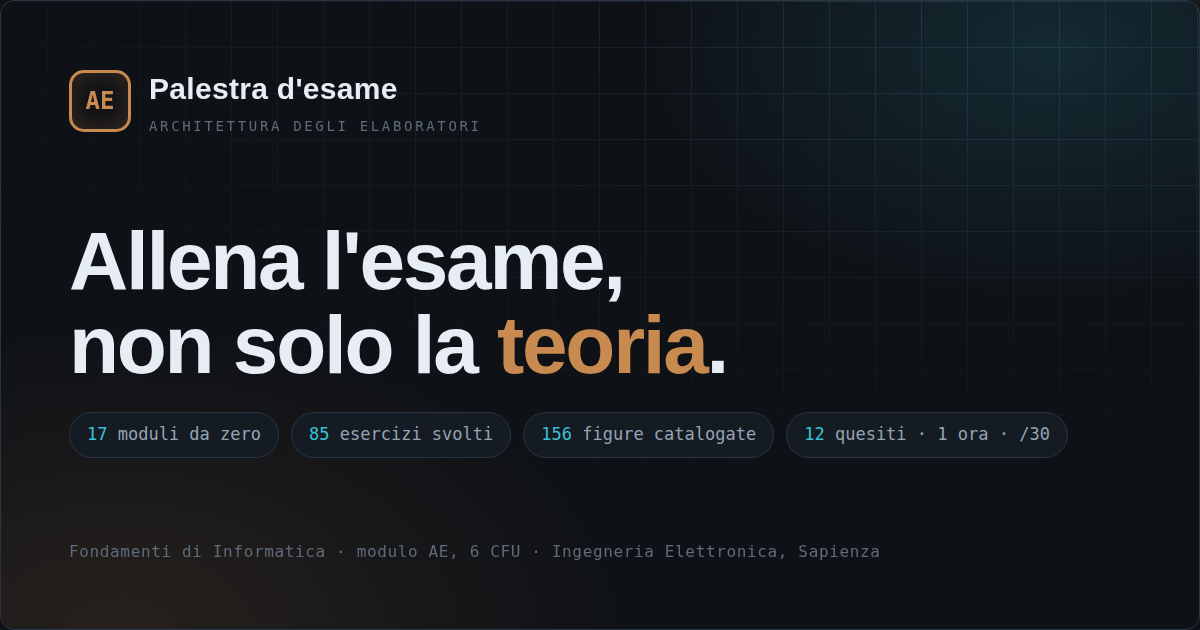
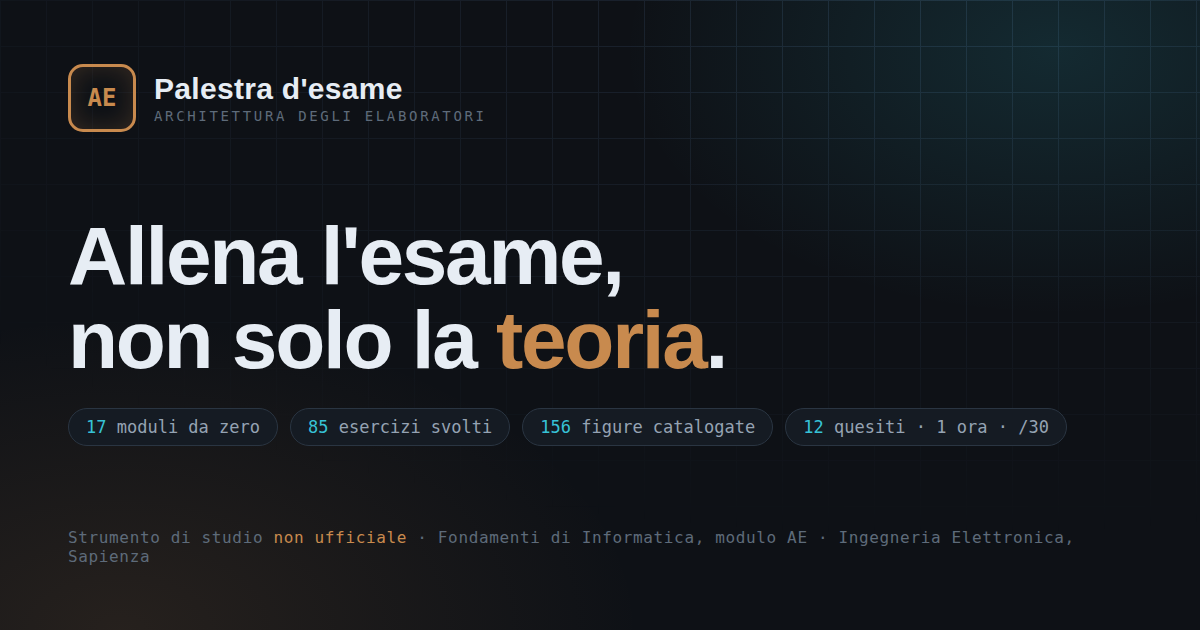
Il sito smette di attribuire a terzi cose che non può provare
Revisione di tutto ciò che il sito **afferma** su persone e istituzioni. Non
è una questione di forma: erano affermazioni presentate come fatti, senza
una fonte dietro.

**Una fonte dichiarata e mai consultata.** La home diceva «Dal regolamento
del docente e dagli appelli 2024–2025». Quel regolamento non è mai stato
letto: le pagine del corso non sono raggiungibili da qui, e il formato è una
ricostruzione da appunti fra studenti. Ora lo dice, e lo dice **due volte**:
sotto i dodici quesiti, attaccato al numero, e per esteso nella sezione — che
si intitola «Come *dovrebbe* essere fatta la prova». Anche i 2,5 punti sono
dichiarati per quello che sono: una scelta di questo sito, perché i pesi
reali non li conosciamo.

**Niente più affermazioni su una persona reale.** «Le trappole *del
docente*» diventano «Accortezze raccolte dagli studenti», e i testi passano
all'impersonale: descrivono come conviene rispondere, non cosa qualcuno
pensa, chiede o sbaglia. Una in particolare sosteneva che certe risposte
ufficiali fossero errate — un'accusa a un professionista con nome e cognome,
basata su un appunto di terza mano: riscritta tenendo solo la parte utile,
cioè la forma corretta della notazione RTN. Un badge «da verificare» non
rende innocua un'affermazione del genere.

Il nome esce anche dal richiamo in cima («formato del prof. Napoli» →
«formato della scritta») e dalla descrizione che finisce nei risultati di
[…]

diff --git a/src/ui/views/Dashboard.tsx b/src/ui/views/Dashboard.tsx
@@ -76,9 +76,9 @@ export function Dashboard(): JSX.Element {
               non solo la teoria.
             </h1>
             <p class="lead">
-              Genera prove nel formato del prof. Napoli — 12 quesiti, voto su 30 con lode — con
-              complemento a 2, sintesi di reti combinatorie via Karnaugh e assembly, ogni item
-              ancorato a un capitolo di Hamacher.
+              Genera prove nel formato della scritta — 12 quesiti, voto su 30 — con complemento
+              a 2, sintesi di reti combinatorie via Karnaugh e assembly, ogni item ancorato a un
+              capitolo di Hamacher.
             </p>
             <div class="btn-row">
               <a class="btn primary" href={hrefFor('exam', 'full')}>
@@ -91,7 +91,7 @@ export function Dashboard(): JSX.Element {
           </div>
 
           <aside class="hero-card">
-            <p class="hero-card-t">La prova, quesito per quesito</p>
+            <p class="hero-card-t">Il formato che alleni</p>
             <ul class="qbreak">
               {EXAM_BREAKDOWN.map((row) => (
                 <li key={row.label}>
@@ -102,6 +102,10 @@ export function Dashboard(): JSX.Element {
             </ul>
             <p class="qb-foot">
               <b>12</b> quesiti · <b>1</b> ora · si passa da <b>18/30</b>
+              {/* La scomposizione è la cosa più «ufficiale» che il sito mostra,
+                  ed è la meno verificata: il chiarimento sta qui, addosso al
+                  numero, non tre schermate più in basso. */}
+              <span class="qb-warn">ricostruzione da appunti, non una fonte del corso</span>
             </p>
           </aside>
         </div>
@@ -135,18 +139,26 @@ export function Dashboard(): JSX.Element {
         </div>
       )}
 
-      <h2 class="sec">Come è fatto l'esame reale</h2>
+      <h2 class="sec">Come dovrebbe essere fatta la prova</h2>
       <div class="panel narrow">
         <p class="lead">
-          Dal regolamento del docente e dagli appelli 2024–2025: prova scritta in aula,{' '}
-          <b>un'ora</b>, solo documento e penna — nessun appunto. La scomposizione dei dodici
-          quesiti è quella qui sopra e vale a punteggio uguale: <b>2,5 punti</b> l'uno. Si supera
-          con <b>18/30</b>, la lode ai brillanti.
+          <b>Attenzione a come leggi questa pagina.</b> Quella qui sopra è una{' '}
+          <b>ricostruzione</b> messa insieme da appunti di studenti: non viene da una fonte del
+          corso e nessuno l'ha confermata. Serve ad allenarsi su un formato plausibile, non a
+          sapere che cosa troverai davvero sul foglio.
         </p>
         <p class="lead" style="margin-top:10px">
-          I due «completare l'immagine» ci sono <b>sempre</b>, e sono schemi delle figure di
-          Hamacher: sono la parte che si prepara disegnando, non rileggendo. Qui trovi gli stessi
-          schemi <a href={hrefFor('ref')}>ridisegnati</a> e da{' '}
+          Secondo quegli appunti la prova è scritta, dura <b>un'ora</b> e non ammette materiale
+          di consultazione. I <b>2,5 punti</b> per quesito sono invece una scelta{' '}
+          <em>di questo sito</em>: i pesi reali non li conosciamo, e dividere trenta per dodici
+          era l'ipotesi più onesta.{' '}
+          <a href={hrefFor('ref')}>Le regole vere stanno sulla pagina del corso</a>: prima
+          dell'appello controlla lì, e se dice altro vale quello che dice lei.
+        </p>
+        <p class="lead" style="margin-top:10px">
+          Gli schemi da completare sono figure del tipo di quelle di Hamacher: è la parte che si
+          prepara disegnando, non rileggendo. Qui li trovi{' '}
+          <a href={hrefFor('ref')}>ridisegnati da zero</a> e da{' '}
           <a href={hrefFor('train')}>completare a vuoto</a>.
         </p>
       </div>
@@ -159,11 +171,19 @@ export function Dashboard(): JSX.Element {
       </div>
 
       <div class="disclaim">
-        ⚠ Strumento di studio non ufficiale, costruito su appunti studenteschi e sul regolamento
-        pubblico del docente. Le domande sono nello <em>stile</em> dell'esame ma non sono prove
-        reali. Verifica sempre programma e regole aggiornate sul sito del prof. e sul catalogo
-        Sapienza. I riferimenti «Hamacher» rimandano ai capitoli/figure del testo — consultalo per
-        i contenuti integrali.
+        ⚠ <b>Strumento di studio non ufficiale</b>, scritto da uno studente e{' '}
+        <b>non affiliato alla Sapienza</b>, al corso o a chi lo tiene: nessuno di loro l'ha
+        rivisto o approvato. È costruito su appunti fra studenti, quindi può contenere errori e
+        parti sorpassate — programma, regole e date valgono solo se le leggi{' '}
+        <a href={hrefFor('ref')}>sulle pagine ufficiali del corso</a>.
+        <br />
+        Le domande sono <b>inventate qui</b>, nello <em>stile</em> della prova: non sono, e non
+        riproducono, prove d'esame reali. I riferimenti «Hamacher» sono rimandi a capitoli e
+        figure del testo, non citazioni: gli schemi del sito sono ridisegnati da zero. Per i
+        contenuti, il libro.
+        <br />
+        Nessun account e nessun server: quello che fai resta nel tuo browser e non viene inviato
+        a nessuno.
       </div>
     </section>
   );

diff --git a/src/content/traps.ts b/src/content/traps.ts
@@ -1,16 +1,21 @@
 import type { Trap } from './types';
 
 /**
- * Le «trappole» del docente, raccolte dagli appunti studenteschi.
+ * Accortezze raccolte dagli appunti degli studenti.
  *
- * Sono marcate `da-verificare` di proposito: sono percezioni utili in fase di
- * preparazione, non regole confermate. La UI le mostra con il badge relativo.
+ * **Sono percezioni di chi ha dato l'esame, non regole di nessuno.** Per
+ * questo sono scritte all'impersonale e marcate `da-verificare`: attribuirle
+ * a una persona significherebbe metterle in bocca a qualcuno che non le ha
+ * dette qui, e nessuna di queste è confermata da una fonte del corso.
+ *
+ * Regola per chi ne aggiunge: descrivi **come conviene rispondere**, mai cosa
+ * qualcuno pensa, chiede, sbaglia o preferisce.
  */
 export const traps: Trap[] = [
   {
     id: 'trap-and-assoc',
-    title: 'AND «non associativo»',
-    body: 'Evita porte AND a 3+ ingressi nei disegni: scomponi in porte a 2 ingressi. Secondo gli appunti considera associativi solo OR e NOR.',
+    title: 'AND a più di due ingressi',
+    body: 'Nei disegni conviene scomporre le porte AND a 3+ ingressi in porte a 2 ingressi: è la forma che gli appunti riportano come attesa.',
     status: 'da-verificare',
   },
   {
@@ -22,7 +27,7 @@ export const traps: Trap[] = [
   {
     id: 'trap-simboli',
     title: 'Simboli logici',
-    body: 'Usa {∧, ∨} nelle risposte: nei quesiti non scrive «AND»/«OR» per esteso.',
+    body: 'Conviene usare {∧, ∨} invece di «AND»/«OR» per esteso: è la notazione usata a lezione secondo gli appunti.',
     status: 'da-verificare',
   },
   {
@@ -33,8 +38,8 @@ export const traps: Trap[] = [
   },
   {
     id: 'trap-rtn',
-    title: 'RTN richiesto',
-    body: 'Alcune risposte pronte dei quiz erano errate: scrivi tu la forma corretta, es. <code>Add R1,R2,R3</code> → <code>R1 ← [R2]+[R3]</code>.',
+    title: 'RTN, forma corretta',
+    body: 'Nelle risposte scrivi la notazione per esteso e con le parentesi solo sulle sorgenti: <code>Add R1,R2,R3</code> → <code>R1 ← [R2]+[R3]</code>.',
     status: 'da-verificare',
   },
 ];

diff --git a/src/ui/views/References.tsx b/src/ui/views/References.tsx
@@ -55,12 +55,13 @@ export function References(): JSX.Element {
   return (
     <section class="view">
       <p class="eyebrow">Cassetta degli attrezzi</p>
-      <h1 class="h">Riferimenti &amp; trappole</h1>
+      <h1 class="h">Riferimenti &amp; accortezze</h1>
       <p class="lead">
         Il catalogo completo delle figure del testo — <b>{figures.length} tavole</b>, capitolo per
-        capitolo — con <b>{drawn} schemi ridisegnati</b> su cui esercitarsi. All'esame c'è sempre un
-        «completare l'immagine»: si riceve il disegno con alcune etichette mancanti e l'elenco di
-        quelle da collocare, con qualche etichetta in più che non va da nessuna parte.
+        capitolo — con <b>{drawn} schemi ridisegnati</b> su cui esercitarsi. Secondo gli appunti
+        degli studenti un «completare l'immagine» c'è a ogni appello: si riceve il disegno con
+        alcune etichette mancanti e l'elenco di quelle da collocare, con qualche etichetta in più
+        che non va da nessuna parte.
       </p>
 
       <div class="panel" style="margin-top:14px">
@@ -123,10 +124,11 @@ export function References(): JSX.Element {
         );
       })}
 
-      <h2 class="sec">Le «trappole» del docente</h2>
+      <h2 class="sec">Accortezze raccolte dagli studenti</h2>
       <p class="lead">
-        Percezioni raccolte dagli studenti — da verificare a lezione, ma utili in fase di
-        preparazione.
+        Impressioni di chi ha dato l'esame prima di te: <b>non sono regole di nessuno</b> e
+        nessuno le ha confermate. Trattale come consigli fra colleghi, verificali a lezione, e
+        se contraddicono la pagina del corso segui quella.
       </p>
       <div>
         {traps.map((trap) => (

diff --git a/index.html b/index.html
@@ -6,9 +6,13 @@
     <link rel="icon" type="image/svg+xml" href="./favicon.svg" />
     <meta name="theme-color" content="#0E1116" />
     <title>AE·FIN — Palestra d'esame · Architettura degli Elaboratori</title>
+    <!-- Niente nome del docente nella descrizione: è il testo che finisce nei
+         risultati di ricerca, e accostare una persona reale a uno strumento
+         non ufficiale suggerisce un avallo che non c'è. Il nome del corso
+         basta a farlo trovare. -->
     <meta
       name="description"
-      content="Sito di studio e simulatore d'esame per il modulo Architettura degli Elaboratori (Fondamenti di Informatica, Napoli — Sapienza). Generatore di prove in stile docente con riferimenti Hamacher."
+      content="Sito di studio e simulatore d'esame non ufficiale per il modulo Architettura degli Elaboratori (Fondamenti di Informatica, Ingegneria Elettronica — Sapienza). Domande inventate nello stile della prova, con rimandi ai capitoli di Hamacher."
     />
     <meta name="color-scheme" content="dark" />
 
@@ -22,7 +26,7 @@
     />
     <meta
       property="og:description"
-      content="Diciassette moduli di teoria da zero, 85 esercizi svolti e un generatore di prove nel formato reale: 12 quesiti, un'ora, voto su 30."
+      content="Diciassette moduli di teoria da zero, 85 esercizi svolti e un generatore di prove. Strumento non ufficiale, scritto da uno studente: le domande sono inventate, non sono prove d'esame reali."
     />
     <!-- Assoluta e non relativa: i crawler delle anteprime non risolvono
          `./` rispetto alla pagina, e l'immagine resterebbe vuota. -->

diff --git a/src/engine/buildExam.ts b/src/engine/buildExam.ts
@@ -74,13 +74,14 @@ function expandSlots(slots: readonly Slot[], rng: Rng): { gen: GeneratorId; poin
 /**
  * Struttura delle prove.
  *
- * `full` ricalca il formato reale, quesito per quesito: 4 crocette,
- * **2 «completare l'immagine»**, 2 «da tabella di verità a espressione», 1
- * sintesi di rete combinatoria, 2 domande aperte, 1 programma assembly.
+ * `full` segue il formato **ricostruito dagli appunti degli studenti**, non
+ * una fonte del corso: 4 crocette, 2 «completare l'immagine», 2 «da tabella di
+ * verità a espressione», 1 sintesi di rete combinatoria, 2 domande aperte, 1
+ * programma assembly.
  *
- * Punti uniformi: 12 × 2,5 = **30**. Sul testo della prova i punti per quesito
- * non sono indicati, quindi li tengo uguali; se il docente li pesa diversamente
- * si cambia qui e basta, perché la somma è verificata da un test.
+ * Punti uniformi: 12 × 2,5 = **30**. I pesi reali non ci sono noti, quindi
+ * dividere trenta per dodici è l'ipotesi più onesta; se salta fuori che sono
+ * diversi si cambia qui e basta, perché la somma è verificata da un test.
  */
 const BLUEPRINTS: Record<ExamMode, Slot[]> = {
   full: [

diff --git a/src/content/links.ts b/src/content/links.ts
@@ -13,18 +13,24 @@ export const links: LinkItem[] = [
     note: 'Testo integrativo',
     kind: 'testo',
   },
+  /**
+   * Le note di questi due dicono a che cosa servono, non che cosa contengono:
+   * sono le pagine ufficiali del corso e nessuno di noi può garantire in loro
+   * vece. Se dicono qualcosa di diverso da questo sito, vale quello che dicono
+   * loro.
+   */
   {
     id: 'link-napoli',
-    label: 'Sito del prof. Napoli',
+    label: 'Pagina del docente del corso',
     url: 'https://cnapoli.diag.uniroma1.it',
-    note: 'Teaching · Exams · Calendar',
+    note: 'La fonte ufficiale: parti da qui',
     kind: 'risorsa',
   },
   {
     id: 'link-regolamento',
-    label: 'Regolamento della prova scritta',
+    label: 'Regole della prova scritta',
     url: 'https://sites.google.com/diag.uniroma1.it/napoli/teaching/exams/em-fin',
-    note: 'Struttura e punteggi ufficiali',
+    note: 'Da verificare qui: in caso di differenze vale questa pagina',
     kind: 'regolamento',
   },
   {

diff --git a/src/app.tsx b/src/app.tsx
@@ -57,9 +57,15 @@ function Footer(): JSX.Element {
   return (
     <footer class="site-footer">
       <div class="foot-inner">
+        {/*
+          La riserva sta qui e non solo in home: al Simulatore ci si arriva
+          per collegamento diretto, e chi entra da lì non vedrebbe mai
+          scritto che le domande non sono prove vere.
+        */}
         <p class="foot-note" style="margin:0">
-          AE·FIN — palestra d'esame · costruito per lo studio personale · non affiliato alla
-          Sapienza
+          AE·FIN — palestra d'esame · strumento <b>non ufficiale</b> scritto da uno studente,
+          non affiliato alla Sapienza né al corso · le domande sono inventate, non sono prove
+          d'esame reali · nessun dato esce dal tuo browser
         </p>
         <nav class="foot-nav" aria-label={t('Mappa del sito')}>
           {VIEWS.map((view) => (

diff --git a/src/styles/components.css b/src/styles/components.css
@@ -366,6 +366,15 @@
     color: var(--color-copper);
     font-weight: 600;
   }
+  /* La riserva sta attaccata al numero che riguarda, non in fondo alla
+     pagina: chi legge «12 quesiti» deve leggere lì da dove viene. */
+  .qb-warn {
+    display: block;
+    margin-top: 5px;
+    color: var(--color-amber);
+    letter-spacing: 0;
+    font-size: 10.5px;
+  }
   .chip {
     display: inline-flex;
     align-items: center;
@@ -1260,8 +1269,12 @@
     text-decoration: none;
   }
   .foot-note {
-    max-width: 46ch;
-    line-height: 1.7;
+    max-width: 62ch;
+    line-height: 1.75;
+  }
+  .foot-note b {
+    color: var(--color-muted);
+    font-weight: 500;
   }
   /* Avvertenza. Deve restare leggibile, non gridare: è una nota a piè di
      pagina con un bordo, non un allarme — e si ferma alla misura del testo. */

diff --git a/src/engine/generators/theory.ts b/src/engine/generators/theory.ts
@@ -33,8 +33,8 @@ const mono = (s: string): string => `<code>${s}</code>`;
 /**
  * Notazione RTN di un'istruzione.
  *
- * I distrattori non sono casuali: sono i tre errori che il docente segnala
- * (trappola `trap-rtn`) — parentesi quadre dimenticate sulle sorgenti,
+ * I distrattori non sono casuali: sono i tre errori tipici raccolti negli
+ * appunti (`trap-rtn`) — parentesi quadre dimenticate sulle sorgenti,
  * parentesi messe erroneamente sulla destinazione, destinazione scambiata.
  * Le parentesi significano «contenuto di», quindi vanno solo dove si legge.
  */

diff --git a/src/ui/components/TrapNote.tsx b/src/ui/components/TrapNote.tsx
@@ -3,9 +3,9 @@ import type { Trap } from '~/content/types';
 import { Rich } from './Rich';
 
 /**
- * Riquadro «trappola». Il badge di stato è deliberato: sono percezioni
- * raccolte dagli studenti, non regole confermate dal docente, e la specifica
- * chiede che questo resti esplicito.
+ * Riquadro «accortezza». Il badge di stato è deliberato: sono impressioni
+ * raccolte fra studenti, non regole di nessuno, e questo deve restare
+ * esplicito ovunque compaiano.
  */
 export function TrapNote({ trap }: { trap: Trap }): JSX.Element {
   return (

diff --git a/src/content/types.ts b/src/content/types.ts
@@ -149,8 +149,9 @@ export interface Figure {
 }
 
 /**
- * «Trappola» del docente. Sono percezioni raccolte dagli studenti: `status`
- * tiene esplicito che vanno verificate, come chiede la specifica.
+ * Accortezza raccolta dagli appunti degli studenti. Non è la regola di
+ * nessuno: `status` tiene esplicito che va verificata, e il testo va scritto
+ * all'impersonale — vedi la nota in testa a `traps.ts`.
  */
 export interface Trap {
   id: string;

diff --git a/README.md b/README.md
@@ -3,19 +3,27 @@
 Sito di studio e **generatore di prove d'esame** per il modulo *Architettura degli Elaboratori*
 (6 CFU) del corso di Fondamenti di Informatica — Ingegneria Elettronica, Sapienza.
 
-Replica il formato della prova scritta: **12 quesiti, 1 ora, voto su 30 con lode**. Ogni quesito
-e ogni scheda di studio riportano il riferimento al testo di Hamacher.
+Si allena su un formato **ricostruito dagli appunti degli studenti** — 12 quesiti, un'ora, voto
+su 30 — non su una fonte del corso. Ogni quesito e ogni scheda di studio riportano il riferimento
+al testo di Hamacher.
 
 ### → **[Apri il sito](https://valeriocolapinto1-cpu.github.io/fdi-2026-sapienza-ingegneria-elettronica/)**
 
 Funziona anche da telefono e, dopo la prima visita, **offline**: si installa come app dal menu
 del browser.
 
-> ⚠ Strumento di studio **non ufficiale**, costruito su appunti studenteschi e sul regolamento
-> pubblico del docente. Le domande sono nello *stile* dell'esame, non sono prove reali. Le
-> «trappole» sono percezioni raccolte dagli studenti, marcate come *da verificare*. I contenuti
-> sono riscritti in forma originale: i riferimenti a Hamacher sono rimandi al testo, non
-> citazioni.
+> ⚠ **Strumento di studio non ufficiale**, scritto da uno studente e **non affiliato alla
+> Sapienza**, al corso o a chi lo tiene: nessuno di loro l'ha rivisto o approvato. È costruito su
+> appunti fra studenti, quindi può contenere errori e parti sorpassate — programma, regole,
+> punteggi e date valgono solo se li leggi sulle pagine ufficiali del corso.
+>
+> Le domande sono **inventate qui**, nello *stile* della prova: non sono, e non riproducono,
+> prove d'esame reali. Le «accortezze» sono impressioni raccolte fra studenti, scritte
+> all'impersonale e marcate *da verificare*: non sono regole di nessuno. I contenuti sono
+> riscritti in forma originale e gli schemi ridisegnati da zero; i riferimenti a Hamacher sono
+> rimandi a capitoli e figure, non citazioni.
+>
+> Nessun account e nessun server: quello che fai resta nel tuo browser.
 
 ## Cosa c'è dentro
 
@@ -56,7 +64,7 @@ browser.
 | `topics/` | Moduli di studio, uno per file; `index.ts` fissa l'ordine e i gruppi |
 | `definitions.ts` | I termini da saper enunciare |
 | `diagrams.ts` | I 45 schemi ridisegnati, con gli slot da completare |
-| `traps.ts` | Trappole del docente |
+| `traps.ts` | Accortezze raccolte dagli studenti — da scrivere **all'impersonale**, vedi la nota nel file |
 | `figures.ts` | Catalogo delle figure del testo, con capitolo e argomento |
 | `links.ts` | Testi e risorse |
 
